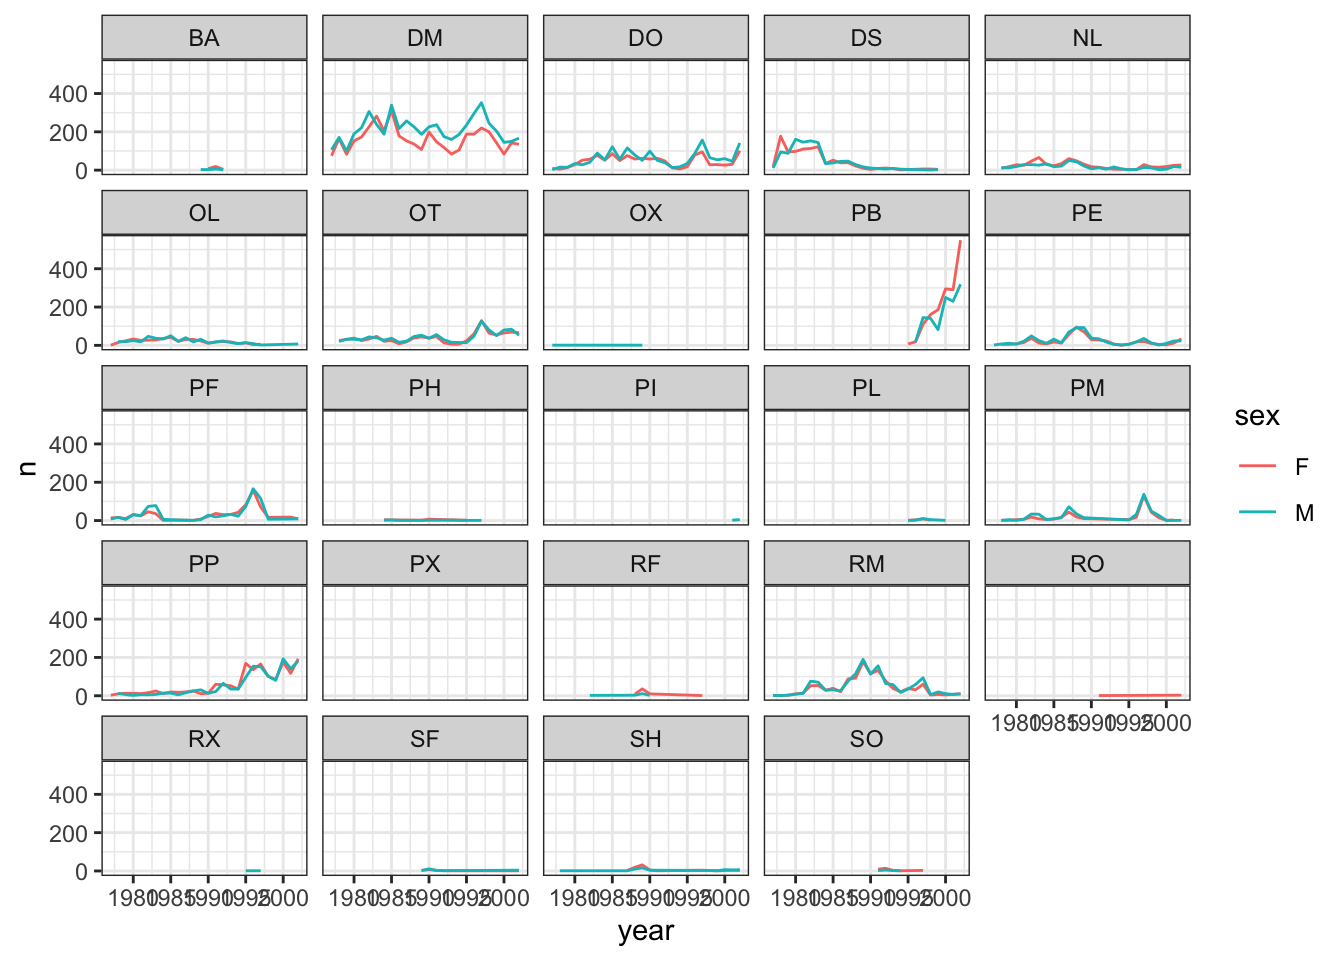
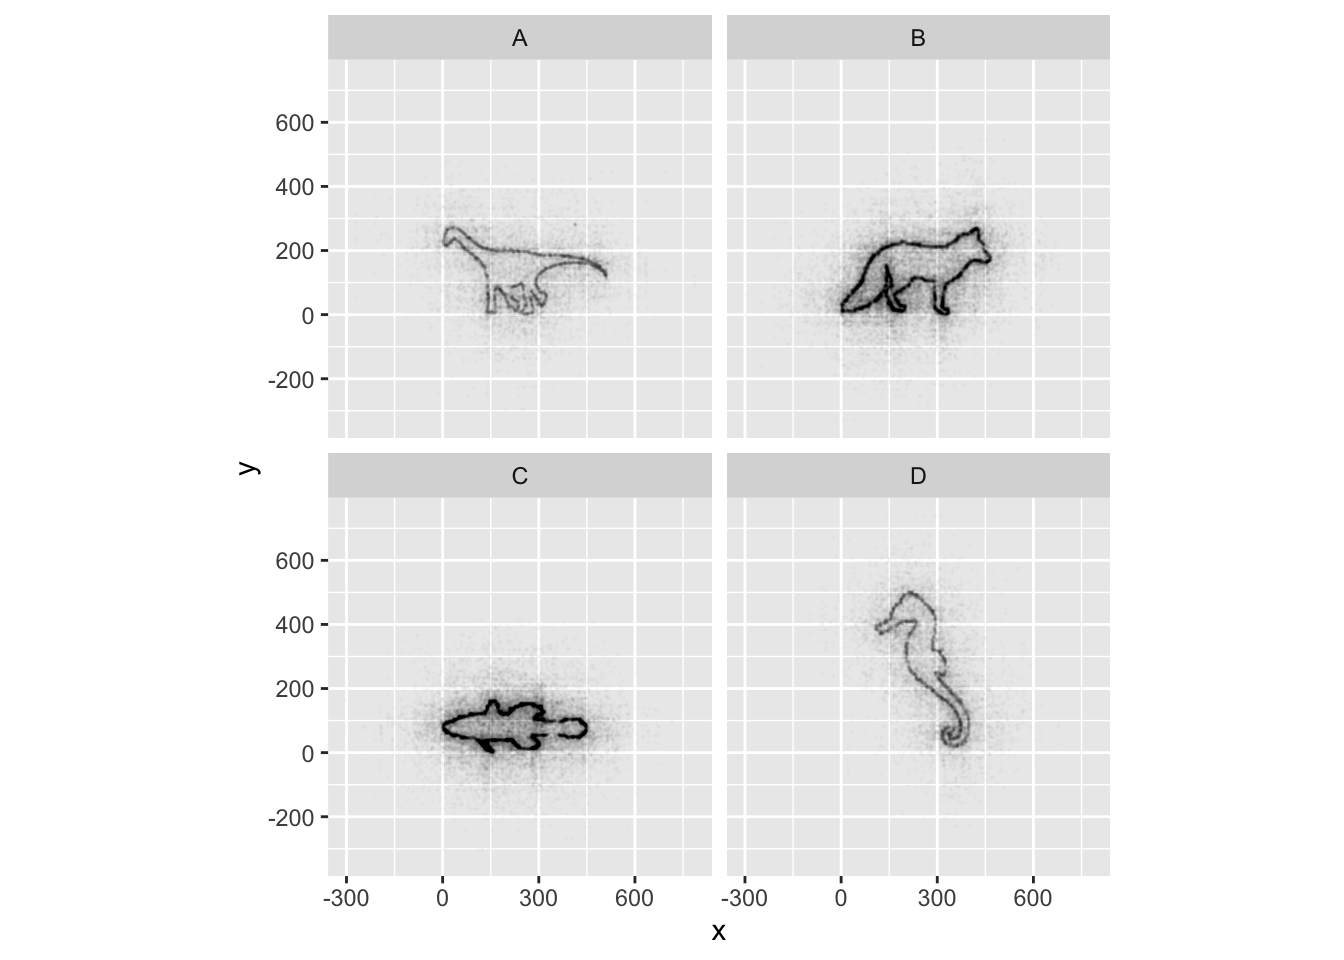
Coord equal

diff --git a/docs/lesson_ggplot_ecology.html b/docs/lesson_ggplot_ecology.html
@@ -701,7 +701,14 @@ ggplot(data = mystery, mapping = aes(x = x, y = y)) +
      facet_wrap(~ Group) +
      geom_point(size = 0.1, alpha = 0.01) </code></pre>
 <p><img src="lesson_ggplot_ecology_files/figure-html/unnamed-chunk-6-1.png" width="672" /></p>
-<p>If all went well, and you faceted by group, set points to be very small, and transparency to be very high (i.e., a low <code>alpha</code> setting), you should discover that each group is the outline of a different animal! This challenge was inspired by Trevor Branch’s <a href="https://twitter.com/TrevorABranch/status/1227493205337182209">Coelocanth post on Twitter</a> and adapted by <a href="https://jepsonnomad.github.io/">Christian John</a>.</p>
+<p>If all went well, and you faceted by group, set points to be very small, and transparency to be very high (i.e., a low <code>alpha</code> setting), you should discover that each group is the outline of a different animal! You may notice that there is some distortion going on, and our fox friend in Group B appears to have a <em>very</em> bushy tail. Try equalizing the coordinate space in the x- and y-axes by adding a <code>coord_equal()</code> to your <code>ggplot()</code> call:</p>
+<pre class="r"><code>## Equalize coordinate mapping
+ggplot(data = mystery, mapping = aes(x = x, y = y)) +
+  facet_wrap(~ Group) +
+  geom_point(size = 0.1, alpha = 0.01) +
+  coord_equal()</code></pre>
+<p><img src="lesson_ggplot_ecology_files/figure-html/unnamed-chunk-7-1.png" width="672" /></p>
+<p>This challenge was inspired by Trevor Branch’s <a href="https://twitter.com/TrevorABranch/status/1227493205337182209">Coelocanth post on Twitter</a> and adapted by <a href="https://jepsonnomad.github.io/">Christian John</a>.</p>
 </details>
 </div>
 <p><br></p>
@@ -736,7 +743,7 @@ ggplot(data = mystery, mapping = aes(x = x, y = y)) +
      theme_bw()</code></pre>
 <pre><code>## geom_path: Each group consists of only one observation. Do you need to adjust the
 ## group aesthetic?</code></pre>
-<img src="lesson_ggplot_ecology_files/figure-html/unnamed-chunk-7-1.png" width="672" />
+<img src="lesson_ggplot_ecology_files/figure-html/unnamed-chunk-8-1.png" width="672" />
 </details>
 </div>
 <p><br></p>
